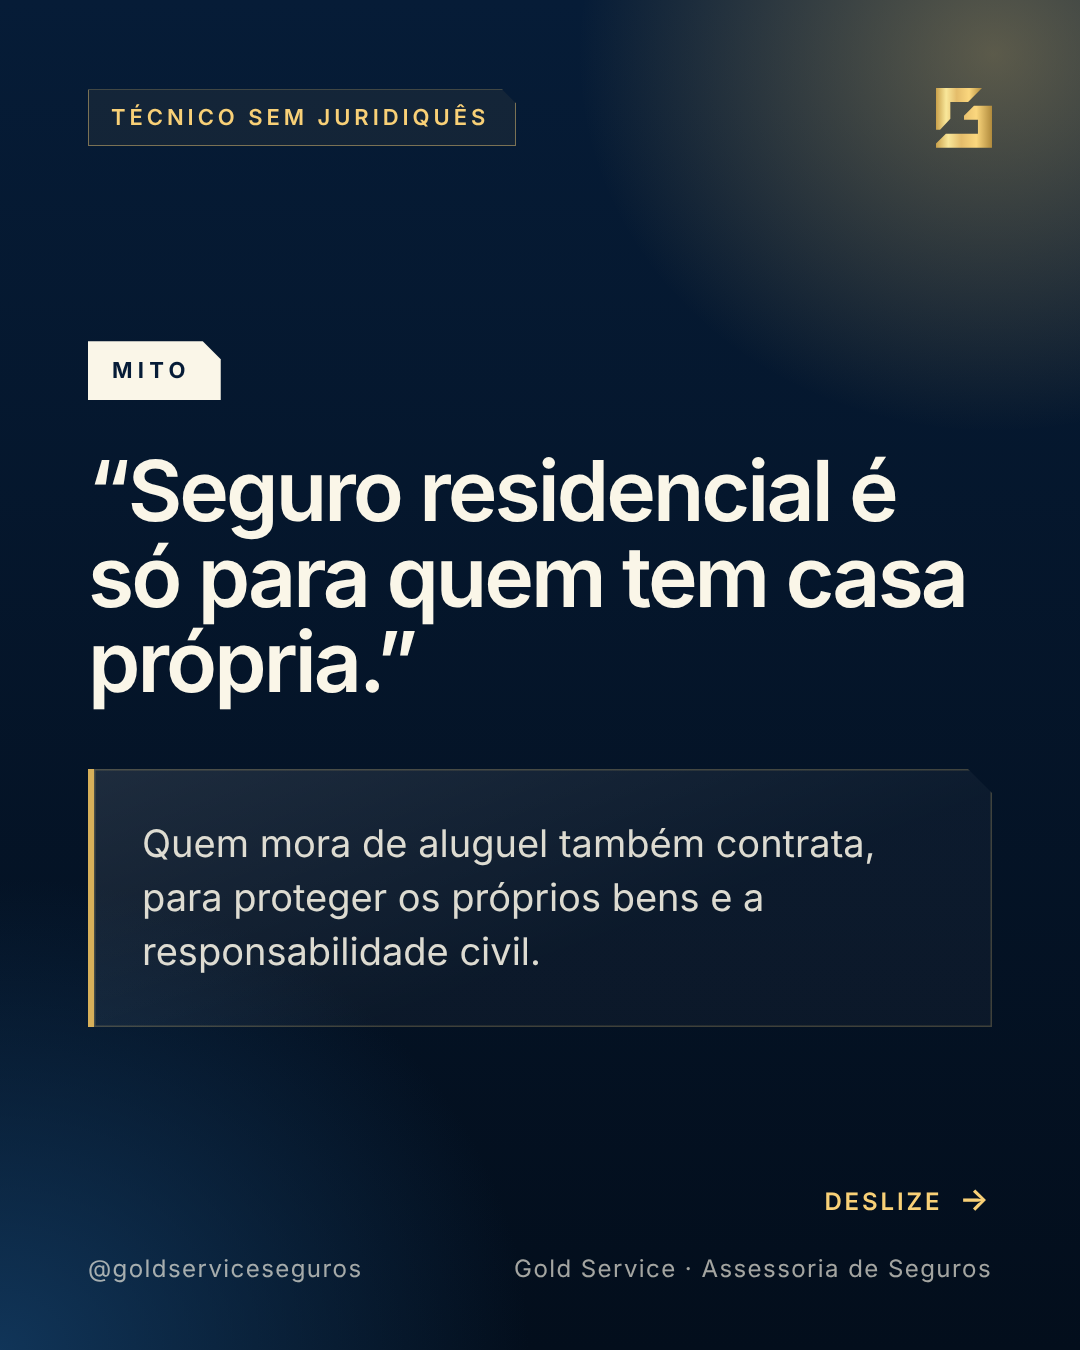
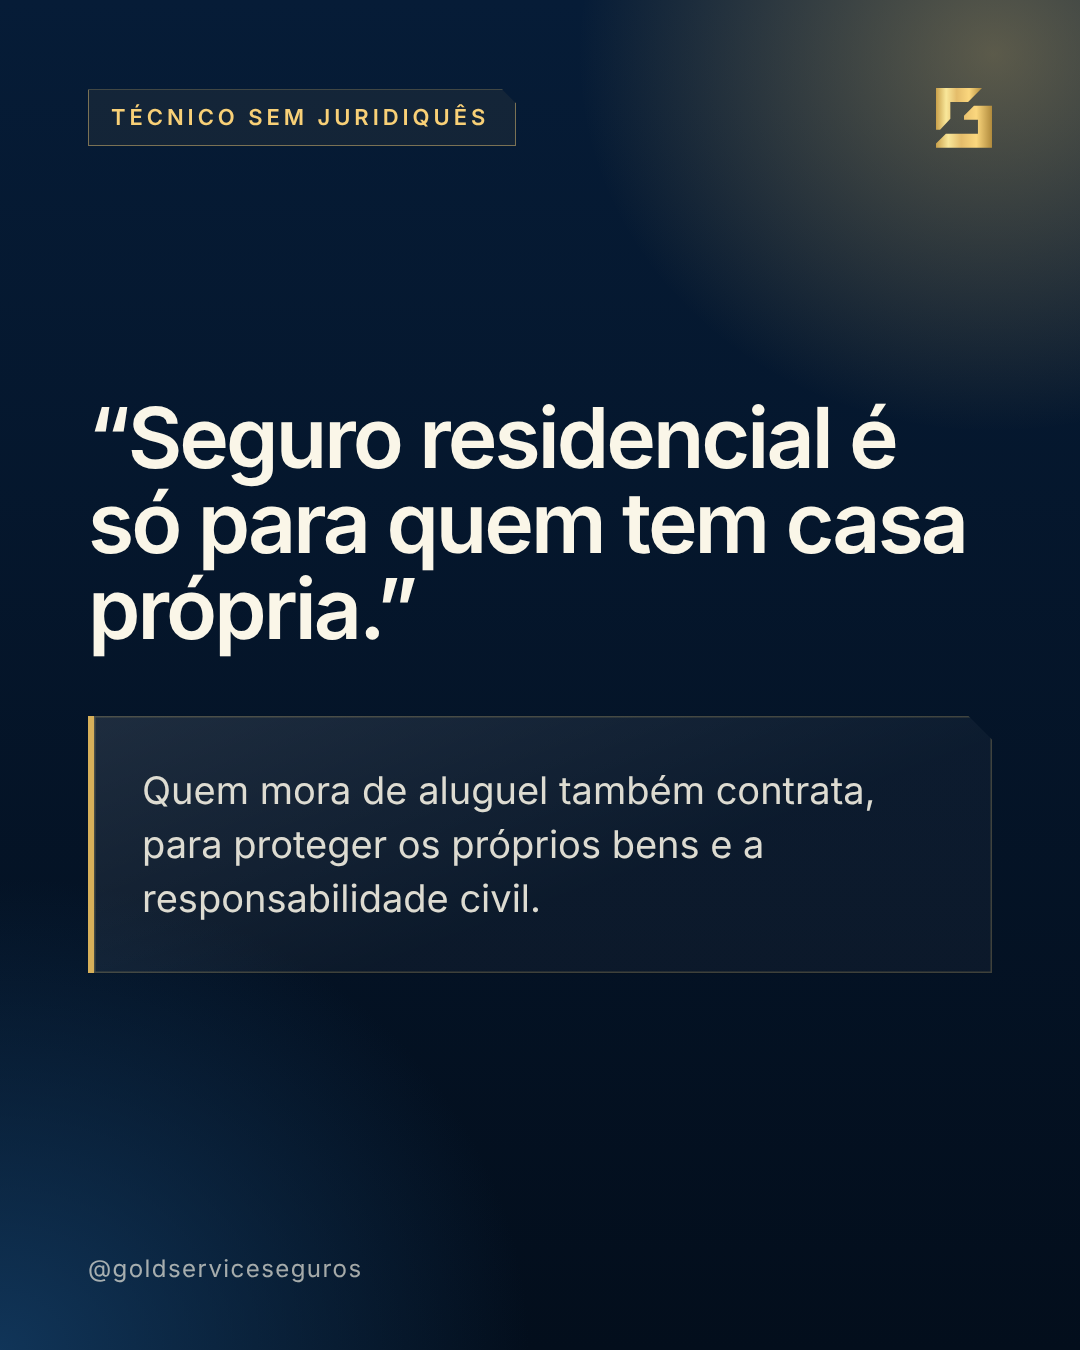
Remove 'Deslize', assinatura do rodapé e selo Mito/Verdade dos posts
Claude-Session: https://claude.ai/code/session_01JwFLpMjxbA7XM1TmfeRS4r

diff --git a/brand/esteira/post.css b/brand/esteira/post.css
@@ -69,9 +69,6 @@ strong { font-weight: 600; }
 .marca-dagua .mono { width: 100%; color: var(--gold-100); }
 .tem-foto .marca-dagua { display: none; }
 .tem-foto .miolo { justify-content: flex-end; padding-bottom: var(--space-6); }
-.seta { position: absolute; right: var(--space-11); bottom: calc(var(--space-8) + 64px); font-size: var(--post-caption); font-weight: 600; letter-spacing: .12em; text-transform: uppercase; color: var(--gold-100); z-index: 1; }
-.ivory .seta { color: var(--gold-900); }
-.seta span { font-size: 1.3em; margin-left: 8px; }
 
 .rodape { display: flex; justify-content: space-between; font-size: var(--post-caption); letter-spacing: .06em; opacity: .65; position: relative; z-index: 1; padding-top: var(--space-4); }
 
@@ -151,4 +148,3 @@ strong { font-weight: 600; }
 .botao::after { content: "  →"; }
 .cta-assina { position: absolute; bottom: 0; left: 0; right: 0; display: flex; justify-content: space-between; align-items: flex-end; }
 .wordmark { width: 300px; height: auto; color: var(--ivory); }
-.cta-assina span { font-size: var(--post-caption); opacity: .65; text-align: right; }
